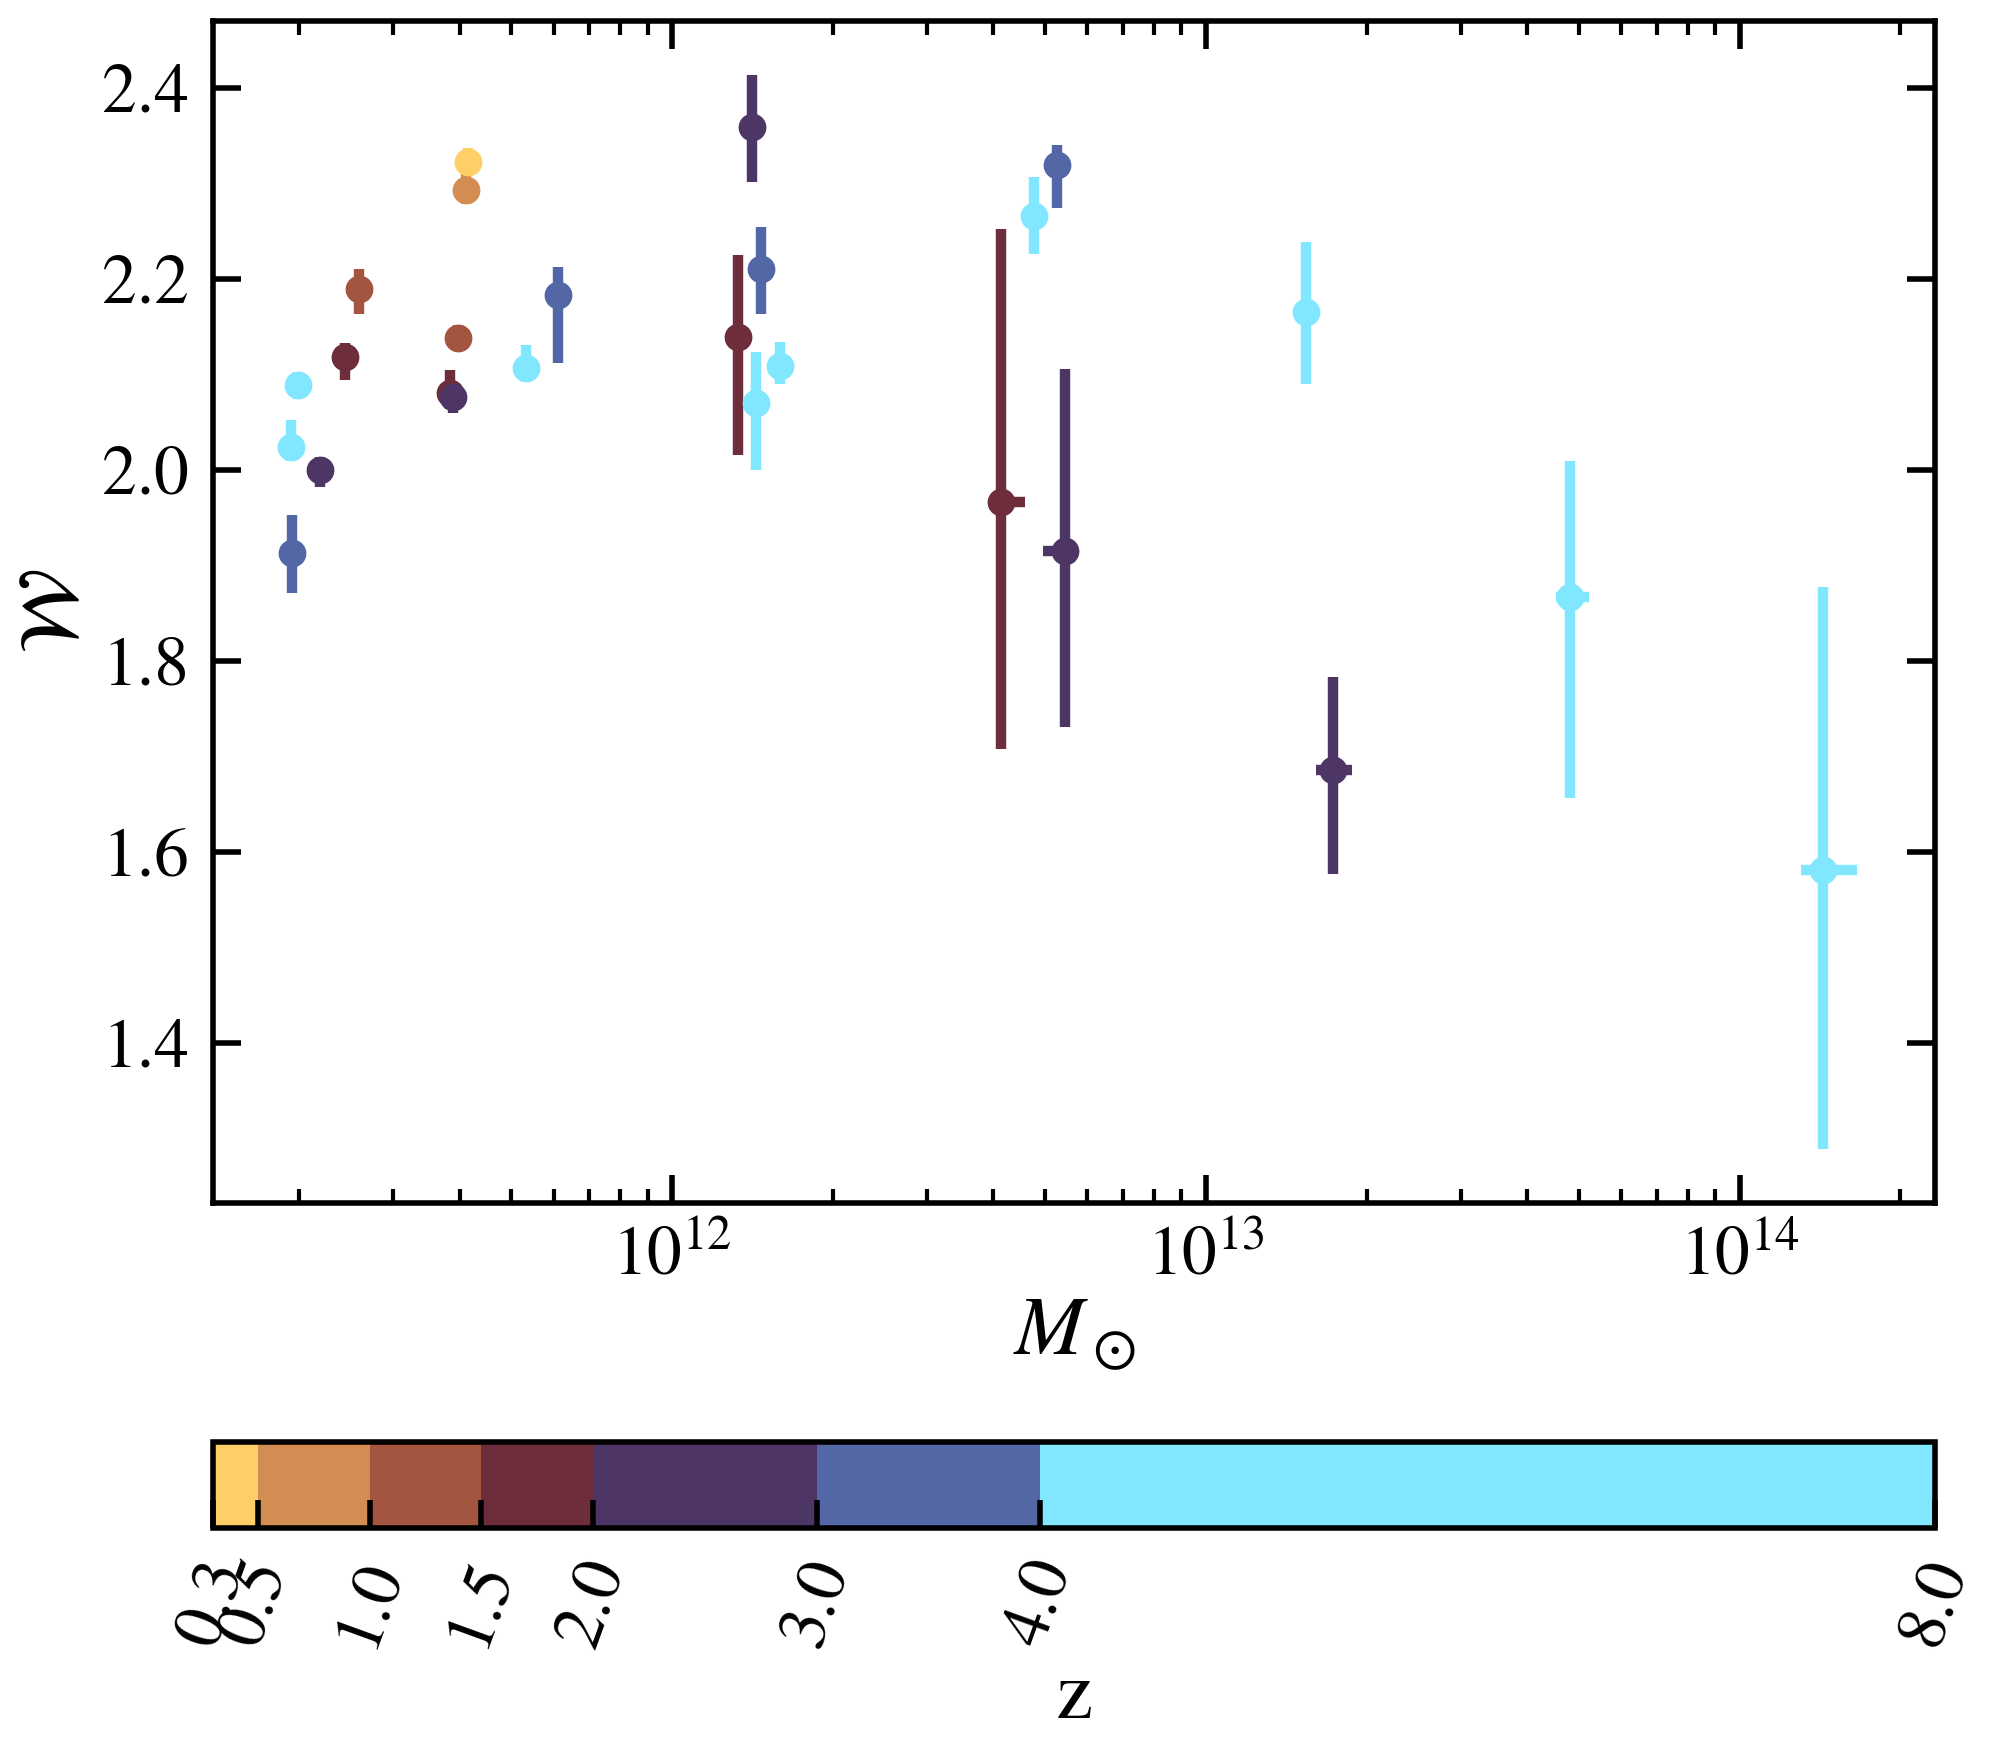
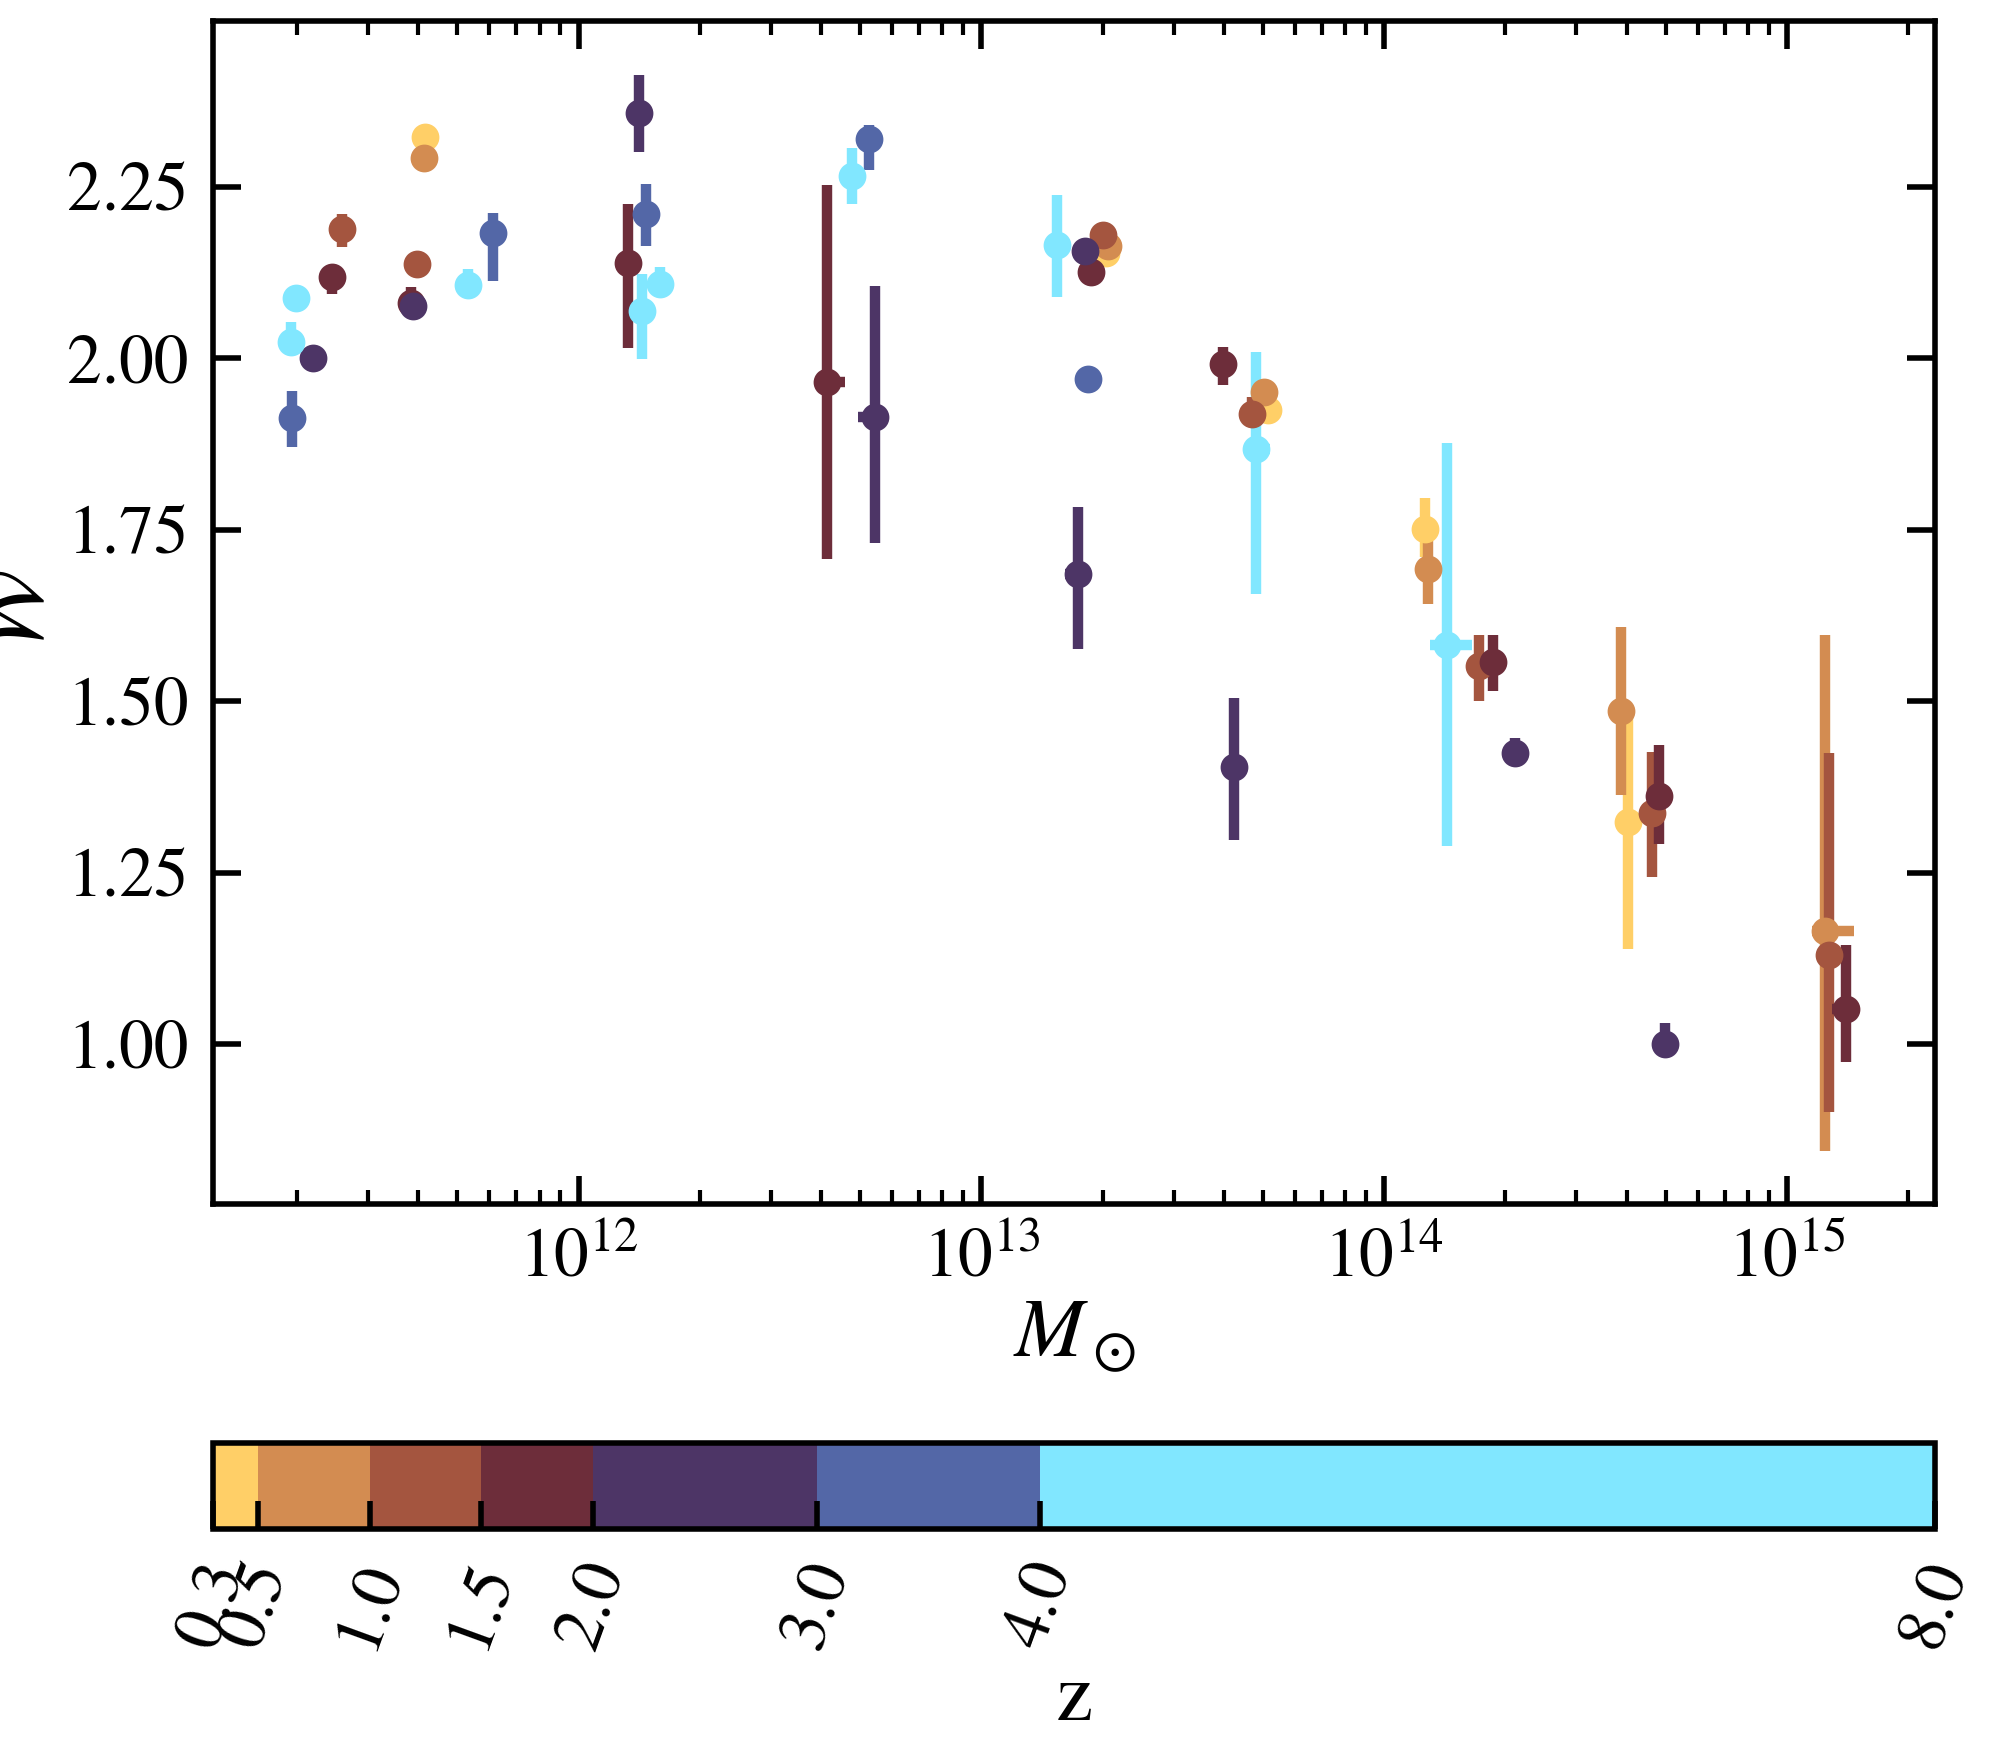
fix bugs of boots z

diff --git a/code/DMhalo_TNG300/accret_func.py b/code/DMhalo_TNG300/accret_func.py
@@ -112,6 +112,7 @@ def add_formation_time(args, idx_dict, mass_dict, subhalo_mass_dict):
         basePath =  '/n/holylfs05/LABS/hernquist_lab/IllustrisTNG/Runs/L%dn%dTNG'%(205,1250)+'_DM/output/'
     elif 'Hydro' in sim_type:
         basePath =  '/n/holylfs05/LABS/hernquist_lab/IllustrisTNG/Runs/L%dn%dTNG'%(205,1250)+'/output/'
+    print(basePath)
     snap_all_mass = il.groupcat.loadHalos(basePath, snapnum, fields='Group_M_Mean200')
     
     # Load all redshifts
@@ -153,6 +154,7 @@ def add_formation_time(args, idx_dict, mass_dict, subhalo_mass_dict):
     if snapnum == 8 or snapnum == 13:
         add_formation_time = np.nan * np.ones(data['halo_M_Mean200'].shape)
     else:
+        no_halo_found = 0
         add_formation_time = []
         for idx in tqdm(subset_idx):
             find_idx = np.where(idx_dict[f'snap_{snapnum}'] == idx)[0]
@@ -162,6 +164,7 @@ def add_formation_time(args, idx_dict, mass_dict, subhalo_mass_dict):
                 exit()
                 
             if len(find_idx) == 0:
+                no_halo_found += 1
                 # print('no halo found')
                 add_formation_time.append([np.nan])
             else:                 
@@ -178,7 +181,7 @@ def add_formation_time(args, idx_dict, mass_dict, subhalo_mass_dict):
                 add_formation_time.append(match_z)
                     
         add_formation_time = np.concatenate(add_formation_time)
-        
+    print('no halo found:', no_halo_found)
     print(add_formation_time.shape, data['halo_M_Mean200'].shape)
     
     # Add formation time to halo data

diff --git a/code/bootstrap/bootstrap_z.py b/code/bootstrap/bootstrap_z.py
@@ -34,8 +34,17 @@ formation_z = data['formation_time']
 
 round_z  = np.round(formation_z, 1)
 unique_z = np.unique(round_z)
-# remove nan from unique_z
-unique_z = unique_z[~np.isnan(unique_z)]
+print(halo_M.shape, halo_R.shape, halo_radii.shape, halo_densities.shape, formation_z.shape)
+
+# Get the index in formation_z where is nan
+# ---------------------------------------------------------------------
+mask = np.where(np.isnan(formation_z) == False)[0]
+halo_M = halo_M[mask]
+halo_R = halo_R[mask]
+halo_radii = halo_radii[mask,:]
+halo_densities = halo_densities[mask,:]
+round_z = round_z[mask]
+print(halo_M.shape, halo_R.shape, halo_radii.shape, halo_densities.shape, round_z.shape)
 del formation_z
 
 
@@ -68,4 +77,5 @@ for form_z in unique_z:
                 os.makedirs(save_stats_dir)
 
             np.save(save_stats_dir+f'snap_{args.snapnum}_Rsp_stats_at_{form_z}', results_at_form_z)
+            print(f'data at formation z {form_z} saved')
     print('')

diff --git a/code/paper_plot/fig5_formz.py b/code/paper_plot/fig5_formz.py
@@ -58,11 +58,11 @@ for simu in simus:
                                                         'med_mass', feature, 'formation_z')
         plot_feature(simu, TNG300_z, TNG300_mass, TNG300_feat, [axs, cmap, norm])
 
-    # # Plot MTNG
-    # for z in MTNG_z:
-    #     MTNG_z, MTNG_mass, MTNG_feat = load_stats(MTNG_dir, f'snap_264_Rsp_stats_at_{z}.npy', 
-    #                                               'med_mass', feature, 'formation_z')
-    #     plot_feature(simu, MTNG_z, MTNG_mass, MTNG_feat, [axs, cmap, norm])
+    # Plot MTNG
+    for z in MTNG_z:
+        MTNG_z, MTNG_mass, MTNG_feat = load_stats(MTNG_dir, f'snap_264_Rsp_stats_at_{z}.npy', 
+                                                  'med_mass', feature, 'formation_z')
+        plot_feature(simu, MTNG_z, MTNG_mass, MTNG_feat, [axs, cmap, norm])
 
     axs.set_ylabel(r"$\mathcal{W}$")
     axs.set_xlabel(r"$M_\odot$")
